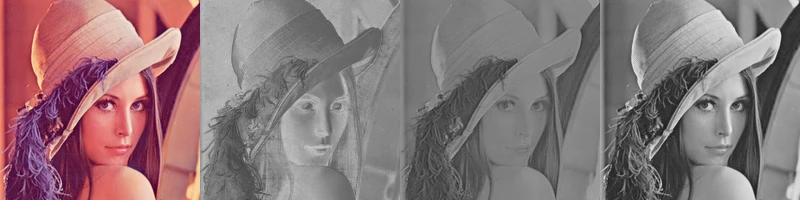
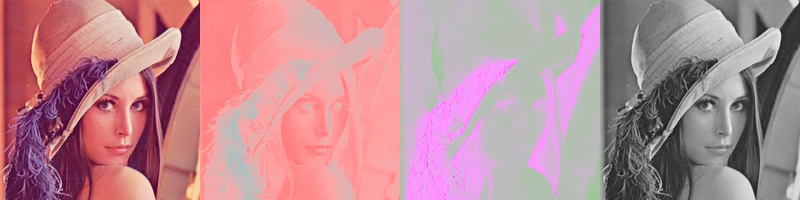
Change xyY representation
Rather than representing raw x and y values in the xyY decomposition,
represent a (x, y, Y) colour where missing x or y is taken from D65
and Y is taken as 0.5.

diff --git a/src/spaces.rs b/src/spaces.rs
@@ -113,24 +113,28 @@ impl Space for XYZSpace {
 
 struct XYYSpace;
 
+fn rgb_from_xyy(lc_x: f32, lc_y: f32) -> Rgb {
+    let x = lc_x * 0.5 / lc_y;
+    let y = 0.5;
+    let z = (1.0 - lc_x - lc_y) * 0.5 / lc_y;
+    Rgb::from(srgb::u8_from_xyz([x, y, z]))
+}
+
 impl Space for XYYSpace {
     fn get_file_suffix(&self) -> &str { "xyY" }
 
     fn tripple_from_rgb(&self, rgb: Rgb) -> Tripple {
         let [x, y, z] = srgb::xyz_from_u8(rgb.0);
         let sum = x + y + z;
-        fn map(v: f32, min: f32, max: f32) -> f32 {
-            ((v - min) * 255.0 / (max - min) + 0.5).clamp(0.0, 255.0)
-        }
-        (
-            map(x / sum, 0.14999999, 0.64000005),
-            map(y / sum, 0.05999999, 0.6),
-            srgb::gamma::compress_u8(y) as f32,
-        )
+        (x / sum, y / sum, srgb::gamma::compress_u8(y) as f32)
     }
 
-    fn rgb_from_fst(&self, value: f32) -> Rgb { grey(value) }
-    fn rgb_from_snd(&self, value: f32) -> Rgb { grey(value) }
+    fn rgb_from_fst(&self, value: f32) -> Rgb {
+        rgb_from_xyy(value, srgb::xyz::D65_xyY[1])
+    }
+    fn rgb_from_snd(&self, value: f32) -> Rgb {
+        rgb_from_xyy(srgb::xyz::D65_xyY[0], value)
+    }
     fn rgb_from_trd(&self, value: f32) -> Rgb { grey(value) }
 }
 
